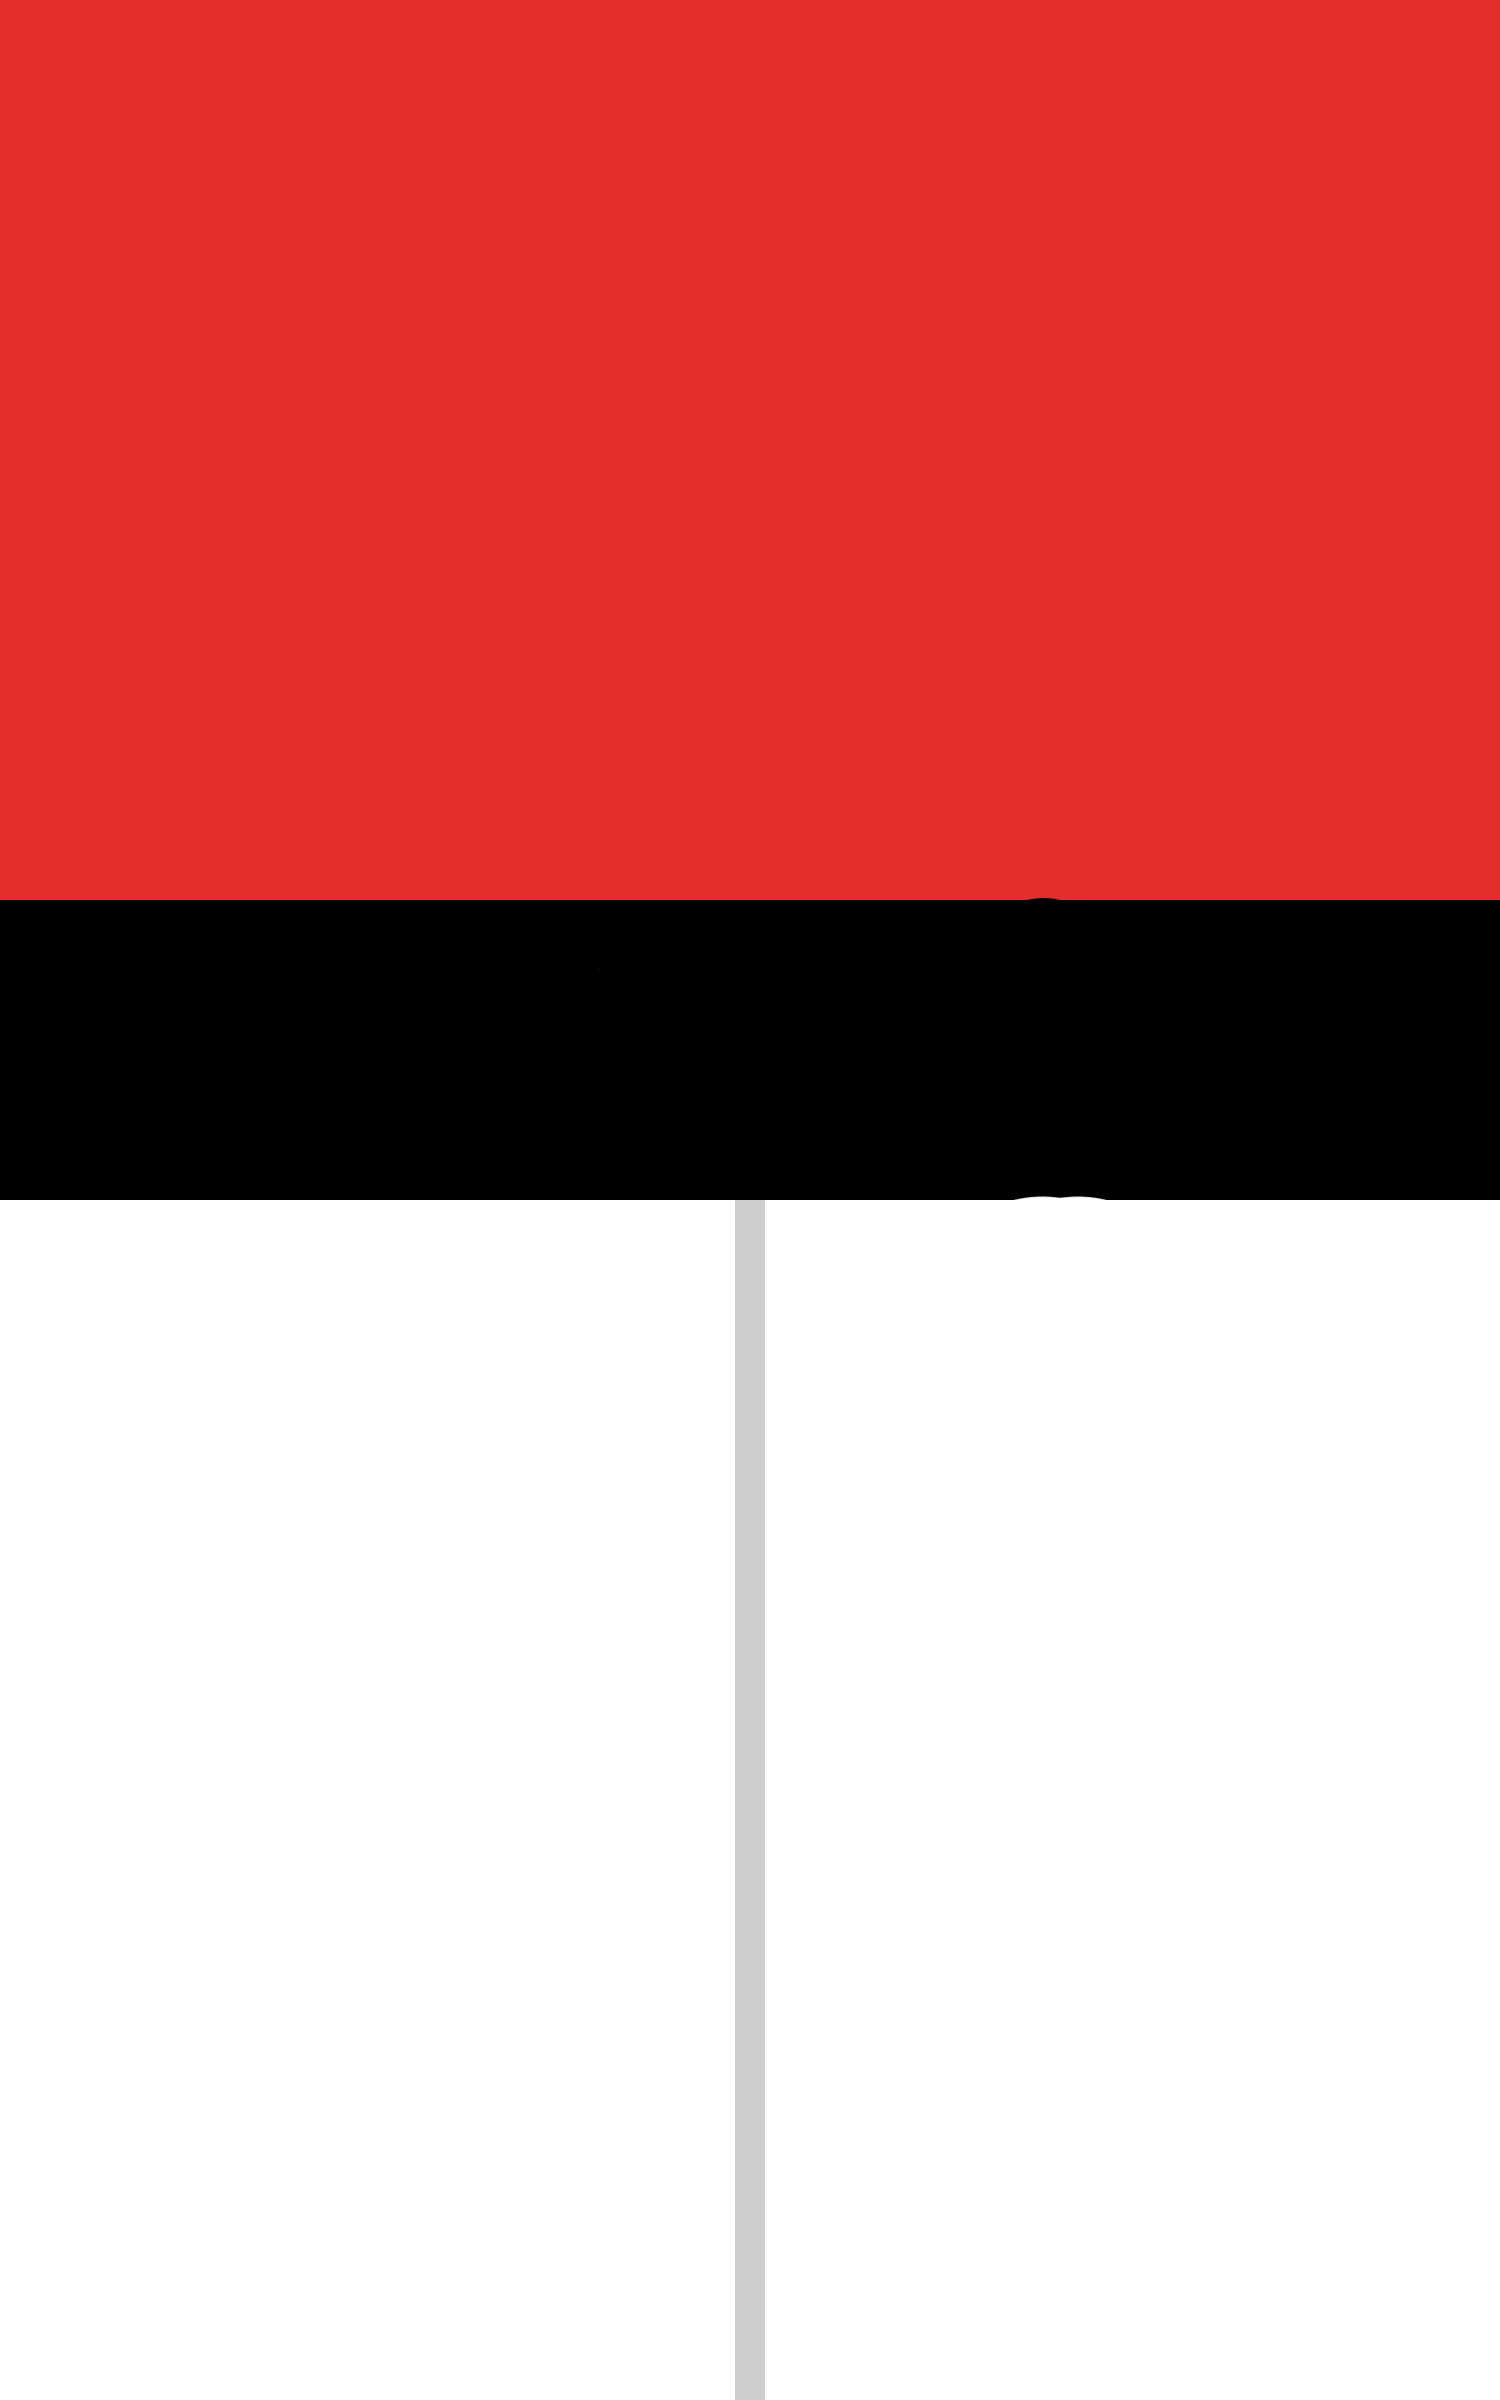
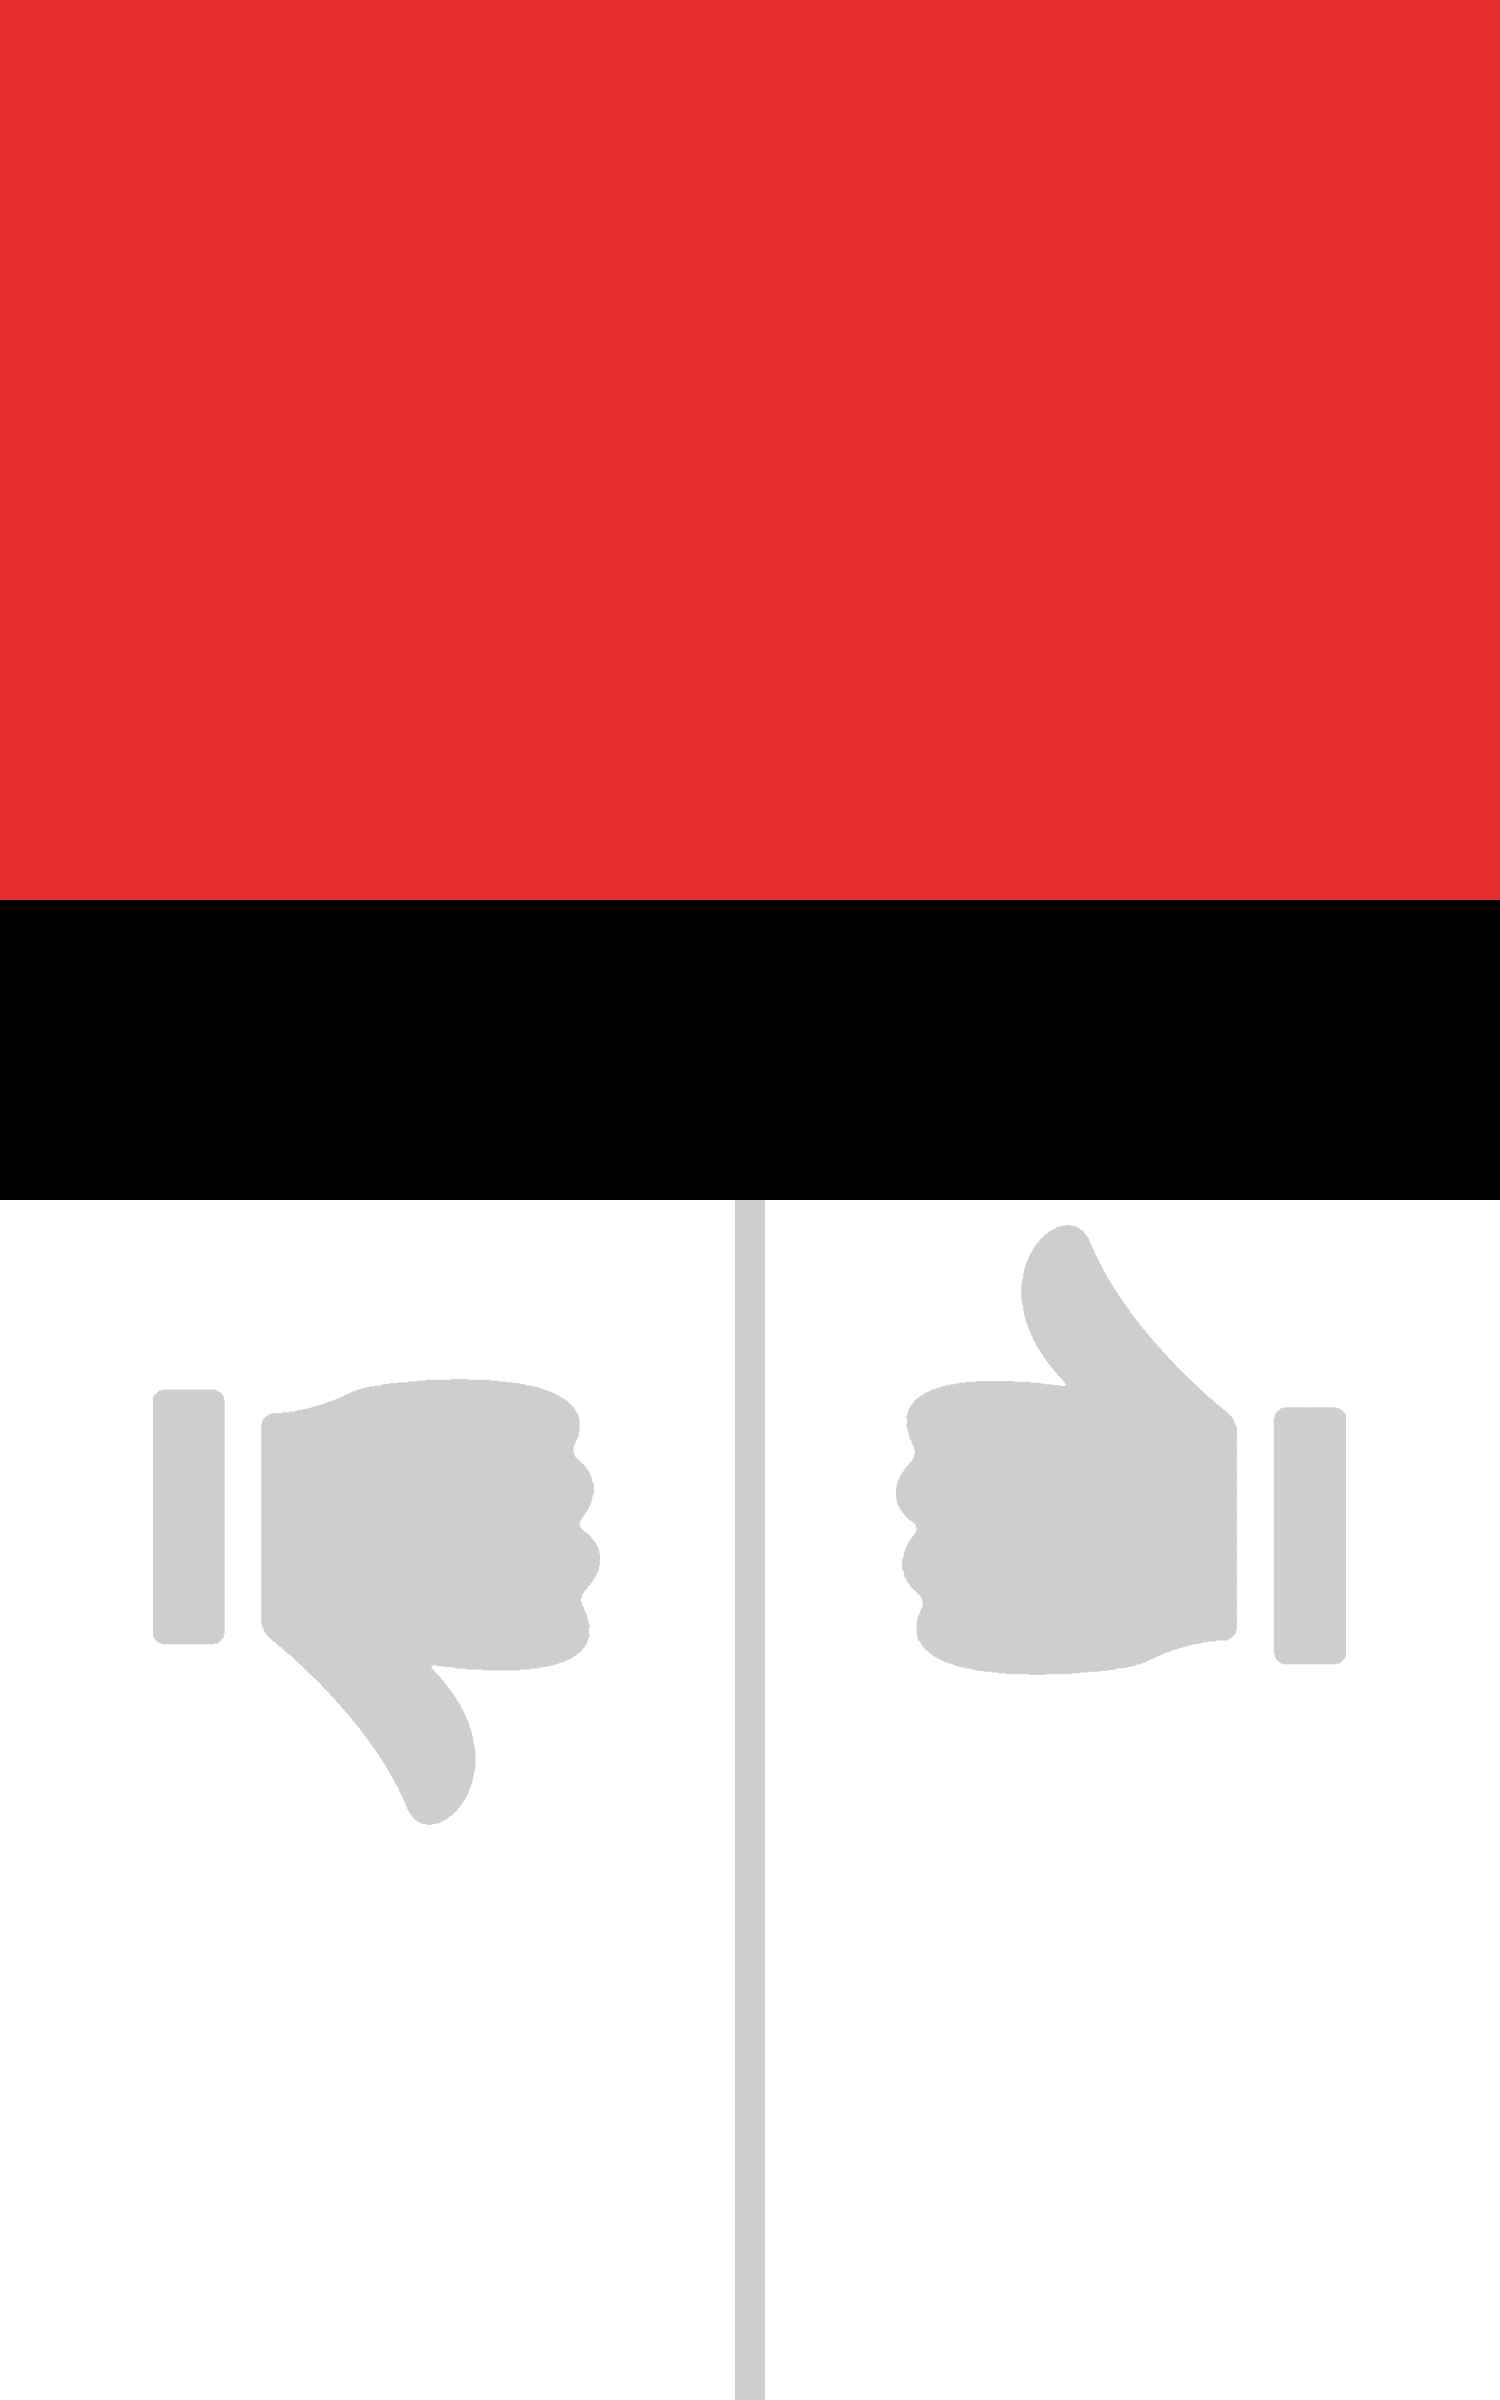
Success supplying Art!

Changed region(s): [[0.5827, 0.5, 0.92, 0.7188], [0.092, 0.5625, 0.3987, 0.7812]]

diff --git a/main.go b/main.go
@@ -3,25 +3,12 @@ package main
 import (
 	"fmt"
 	"image"
-	"image/color"
 	"image/draw"
 	"image/png"
-	"io/ioutil"
-	"math/rand"
+	"log"
 	"os"
-	"time"
 
-	"fyne.io/fyne/v2"
-	"fyne.io/fyne/v2/app"
-	"fyne.io/fyne/v2/canvas"
-	"fyne.io/fyne/v2/container"
-	"fyne.io/fyne/v2/dialog"
-	"fyne.io/fyne/v2/layout"
-	"fyne.io/fyne/v2/theme"
-	"fyne.io/fyne/v2/widget"
-	"golang.org/x/image/font"
-	"golang.org/x/image/font/opentype"
-	"golang.org/x/image/math/fixed"
+	"github.com/nfnt/resize"
 )
 
 type Image struct {
@@ -51,10 +38,8 @@ type Card struct {
 }
 
 var (
-	row1Count  int = 0
-	row2Count  int = 0
-	card       Card
-	imagePaths = []string{
+	card            Card
+	grupyImagePaths = []string{
 		"assets/grupy/Socjalni.png",
 		"assets/grupy/Ekolodzy.png",
 		"assets/grupy/Centrysci.png",
@@ -92,320 +77,56 @@ var (
 		"assets/wsk/ZdrowieMinus.png",
 		"assets/wsk/ZdrowiePlus.png",
 	}
-	sliderValues = make([]int, 7)
 )
 
 func main() {
-	card = Card{
-		za:      make([]bool, 10),
-		przeciw: make([]bool, 10),
-	}
-	for i := 0; i < 10; i++ {
-		card.za[i] = false
-		card.przeciw[i] = false
-	}
-	a := app.New()
-	a.Settings().SetTheme(theme.DarkTheme())
-	w := a.NewWindow("SEJM Generator")
-
-	fileButton := widget.NewButton("Select Image", func() {
-		dialog.NewFileOpen(func(file fyne.URIReadCloser, err error) {
-			if err != nil {
-				dialog.ShowError(err, w)
-				return
-			}
-			if file == nil {
-				return
-			}
-			defer file.Close()
-
-		}, w).Show()
-	})
-
-	image := canvas.NewImageFromFile("result.png")
-	image.FillMode = canvas.ImageFillContain
-	image.SetMinSize(fyne.NewSize(300, 300))
-
-	updateImage := func(img *canvas.Image, title string) {
-		drawImage(title)
-		img.File = "result.png"
-		img.Refresh()
-		fmt.Println("Image updated!")
+	//Initialize a card
+	card := Card{
+		Title: "Depenalizacja piractwa cyfrowego",
 	}
 
-	titleEntry := widget.NewEntry()
-	titleEntry.SetPlaceHolder("Tytul ustawy...")
-	titleEntry.OnSubmitted = func(content string) {
-		updateImage(image, content)
-	}
-	// Create checkboxes
-	images := make([]*canvas.Image, 20)
-	checkboxes := make([]fyne.CanvasObject, 20)
-	for i := 0; i < 20; i++ {
-		checkbox := widget.NewCheck("", func(checked bool) {
-			if checked {
-				if i < 10 {
-					card.za[i] = true
-					row1Count++
-				} else {
-					card.przeciw[i-10] = true
-					row2Count++
-				}
-			} else {
-				if i < 10 {
-					card.za[i] = false
-					row1Count--
-				} else {
-					card.przeciw[i-10] = false
-					row2Count--
-				}
-			}
-			updateImage(image, titleEntry.Text)
-		})
-		img := canvas.NewImageFromFile(imagePaths[i])
-		img.FillMode = canvas.ImageFillContain
-		img.SetMinSize(fyne.NewSize(50, 50))
-		images[i] = img
-		checkboxes[i] = container.NewVBox(img, checkbox)
-	}
-
-	// Arrange checkboxes in two rows
-	row1 := container.NewHBox(checkboxes[0:10]...)  // First row with 10 checkboxes
-	row2 := container.NewHBox(checkboxes[10:20]...) // Second row with the remaining 10 checkboxes
-
-	text1 := widget.NewLabel("Grupy Interesów ZA")
-	text2 := widget.NewLabel("Grupy Interesów PRZECIW")
-
-	sliderRows := make([]fyne.CanvasObject, 0, 6)
-
-	for i := 0; i < 7; i++ {
-		leftImage := canvas.NewImageFromFile(wskaznikiImagePaths[i*2])
-		leftImage.FillMode = canvas.ImageFillContain
-		rightImage := canvas.NewImageFromFile(wskaznikiImagePaths[i*2+1])
-		rightImage.FillMode = canvas.ImageFillContain
-
-		leftImage.SetMinSize(fyne.NewSize(50, 50))
-		rightImage.SetMinSize(fyne.NewSize(50, 50))
-		slider := widget.NewSlider(-3, 3)
-		slider.Value = 0
-		slider.Step = 1
-
-		slider.OnChanged = func(value float64) {
-			sliderValues[i] = int(value)
-			updateImage(image, titleEntry.Text)
-		}
-
-		row := container.New(layout.NewGridLayoutWithColumns(3),
-			leftImage,
-			container.New(layout.NewVBoxLayout(),
-				layout.NewSpacer(),
-				slider,
-				layout.NewSpacer(),
-			),
-			rightImage,
-		)
-		sliderRows = append(sliderRows, row)
-	}
-	sliders := container.NewVBox(sliderRows...)
-	// Save interface
-	filenameEntry := widget.NewEntry()
-	filenameEntry.SetPlaceHolder("Nazwa...")
-
-	saveButton := widget.NewButton("Zapisz", func() {
-		filename := filenameEntry.Text
-		fmt.Printf("%s.png saved\n", filename)
-	})
-
-	loreEntry := widget.NewEntry()
-	loreEntry.SetPlaceHolder("Ciekawostki...")
-	// Combine the two rows into a single column
-	checkColumn := container.NewVBox(fileButton, titleEntry, text1, row1, text2, row2, sliders, loreEntry)
-
-	// Create an additional column for other content if needed
-	otherColumn := container.NewVBox(
-		widget.NewLabel("Result:"),
-		image,
-		widget.NewLabel("Nazwa Pliku:"),
-		filenameEntry,
-		saveButton,
-	)
-
-	// Use a grid layout with 2 columns to layout the two main columns
-	grid := container.New(layout.NewGridLayout(2), checkColumn, otherColumn)
-
-	w.SetContent(grid)
-	w.ShowAndRun()
-}
-
-func drawImage(title string) {
-	zaPositions := generateRandomPointsZA(row1Count)
-	przeciwPositions := generateRandomPointsPRZECIW(row2Count)
-	baseFile, err := os.Open("assets/card.png")
+	err := drawCard(card, "testcard")
 	if err != nil {
-		panic(err)
-	}
-	defer baseFile.Close()
-
-	baseImage, err := png.Decode(baseFile)
-	if err != nil {
-		panic(err)
-	}
-
-	resultImage := image.NewRGBA(baseImage.Bounds())
-	draw.Draw(resultImage, baseImage.Bounds(), baseImage, image.Point{}, draw.Over)
-
-	index := 0
-	for i, checked := range card.za {
-		if checked {
-			overlayFile, err := os.Open(imagePaths[i])
-			if err != nil {
-				panic(err)
-			}
-			defer overlayFile.Close()
-
-			overlayImage, err := png.Decode(overlayFile)
-			if err != nil {
-				panic(err)
-			}
-
-			overlayPosition := zaPositions[index]
-			overlayPoint := image.Point{X: overlayPosition.X, Y: overlayPosition.Y}
-			draw.Draw(resultImage, overlayImage.Bounds().Add(overlayPoint), overlayImage, image.Point{}, draw.Over)
-			index++
-		}
-	}
-
-	index = 0
-	for i, checked := range card.przeciw {
-		if checked {
-			overlayFile, err := os.Open(imagePaths[i])
-			if err != nil {
-				panic(err)
-			}
-			defer overlayFile.Close()
-
-			overlayImage, err := png.Decode(overlayFile)
-			if err != nil {
-				panic(err)
-			}
-
-			overlayPosition := przeciwPositions[index]
-			overlayPoint := image.Point{X: overlayPosition.X, Y: overlayPosition.Y}
-			draw.Draw(resultImage, overlayImage.Bounds().Add(overlayPoint), overlayImage, image.Point{}, draw.Over)
-			index++
-		}
-	}
-
-	for i, value := range sliderValues {
-		if value != 0 {
-			if value > 0 {
-				overlayFile, _ := os.Open(wskaznikiImagePaths[i*2+1])
-				overlayImage, _ := png.Decode(overlayFile)
-				overlayPoint := image.Point{X: 113, Y: 2000}
-				draw.Draw(resultImage, overlayImage.Bounds().Add(overlayPoint), overlayImage, image.Point{}, draw.Over)
-			} else {
-
-				overlayFile, _ := os.Open(wskaznikiImagePaths[i*2])
-				overlayImage, _ := png.Decode(overlayFile)
-				overlayPoint := image.Point{X: 800, Y: 2000}
-				draw.Draw(resultImage, overlayImage.Bounds().Add(overlayPoint), overlayImage, image.Point{}, draw.Over)
-			}
-		}
-	}
-
-	addLabel(resultImage, title, 470, 1100, 200)
-
-	// Save the result image to "result.png"
-	outFile, err := os.Create("result.png")
-	if err != nil {
-		panic(err)
-	}
-	defer outFile.Close()
-
-	if err := png.Encode(outFile, resultImage); err != nil {
-		panic(err)
+		log.Fatal(err)
 	}
 }
 
-type Point struct {
-	X int
-	Y int
-}
+func drawCard(card Card, filename string) error {
+	//Load base card png
+	backgroundFile, err := os.Open("assets/card.png")
+	backgroundImage, err := png.Decode(backgroundFile)
+	defer backgroundFile.Close()
+	if err != nil {
+		return err
+	}
 
-func GrupyCountToPositions(count int) []Point {
-	switch count {
-	case 0:
+	//Add card art to backgroundImage
+	artFile, err := os.Open("assets/piractwo.png")
+	art, err := png.Decode(artFile)
+	defer artFile.Close()
+	if err != nil {
 		return nil
-	case 1:
-		return []Point{{151, 1592}}
-	default:
-		return []Point{{151, 1592}, {500, 1592}}
 	}
+
+	imageWithArt := addArt(backgroundImage, art)
+	result, err := os.Create("result.png")
+	defer result.Close()
+
+	if err := png.Encode(result, imageWithArt); err != nil {
+		fmt.Println("Error encoding output image:", err)
+		return err
+	}
+	return nil
 }
 
-func generateRandomPointsZA(n int) []Point {
-	ymin := 1200
-	ymax := 1750
-	xmin := 20
-	xmax := 500
-
-	points := make([]Point, n)
-	rand.Seed(time.Now().UnixNano()) // Seed the random number generator
-	for i := 0; i < n; i++ {
-		points[i] = Point{
-			X: rand.Intn(xmax-xmin+1) + xmin,
-			Y: rand.Intn(ymax-ymin+1) + ymin,
-		}
-	}
-	return points
-}
-
-func generateRandomPointsPRZECIW(n int) []Point {
-	ymin := 1200
-	ymax := 1750
-	xmin := 750
-	xmax := 1250
-
-	points := make([]Point, n)
-	rand.Seed(time.Now().UnixNano()) // Seed the random number generator
-	for i := 0; i < n; i++ {
-		points[i] = Point{
-			X: rand.Intn(xmax-xmin+1) + xmin,
-			Y: rand.Intn(ymax-ymin+1) + ymin,
-		}
-	}
-	return points
-}
-
-func addLabel(img *image.RGBA, label string, x, y, fontSize int) {
-	fontBytes, err := ioutil.ReadFile("assets/font.ttf")
-	if err != nil {
-		fmt.Println(err)
-		return
-	}
-	ttf, err := opentype.Parse(fontBytes)
-	if err != nil {
-		fmt.Println(err)
-		return
-	}
-
-	face, err := opentype.NewFace(ttf, &opentype.FaceOptions{
-		Size:    float64(fontSize),
-		DPI:     72,
-		Hinting: font.HintingFull,
-	})
-	if err != nil {
-		fmt.Println(err)
-		return
-	}
-
-	col := color.RGBA{255, 255, 255, 255} // white color
-	point := fixed.Point26_6{fixed.Int26_6(x * 64), fixed.Int26_6(y * 64)}
-	d := &font.Drawer{
-		Dst:  img,
-		Src:  image.NewUniform(col),
-		Face: face,
-		Dot:  point,
-	}
-	d.DrawString(label)
+func addArt(backgroundImage image.Image, art image.Image) *image.RGBA {
+	//First resize the art to fit the card.
+	artWidth := uint(300 * 5)
+	artHeight := uint(300 * 3)
+	art = resize.Resize(artWidth, artHeight, art, resize.Lanczos3)
+	resultImage := image.NewRGBA(backgroundImage.Bounds())
+	draw.Draw(resultImage, backgroundImage.Bounds(), backgroundImage, image.Point{}, draw.Src)
+	artPosition := image.Point{X: 0, Y: 0}
+	draw.Draw(resultImage, art.Bounds().Add(artPosition), art, image.Point{}, draw.Over)
+	return resultImage
 }
